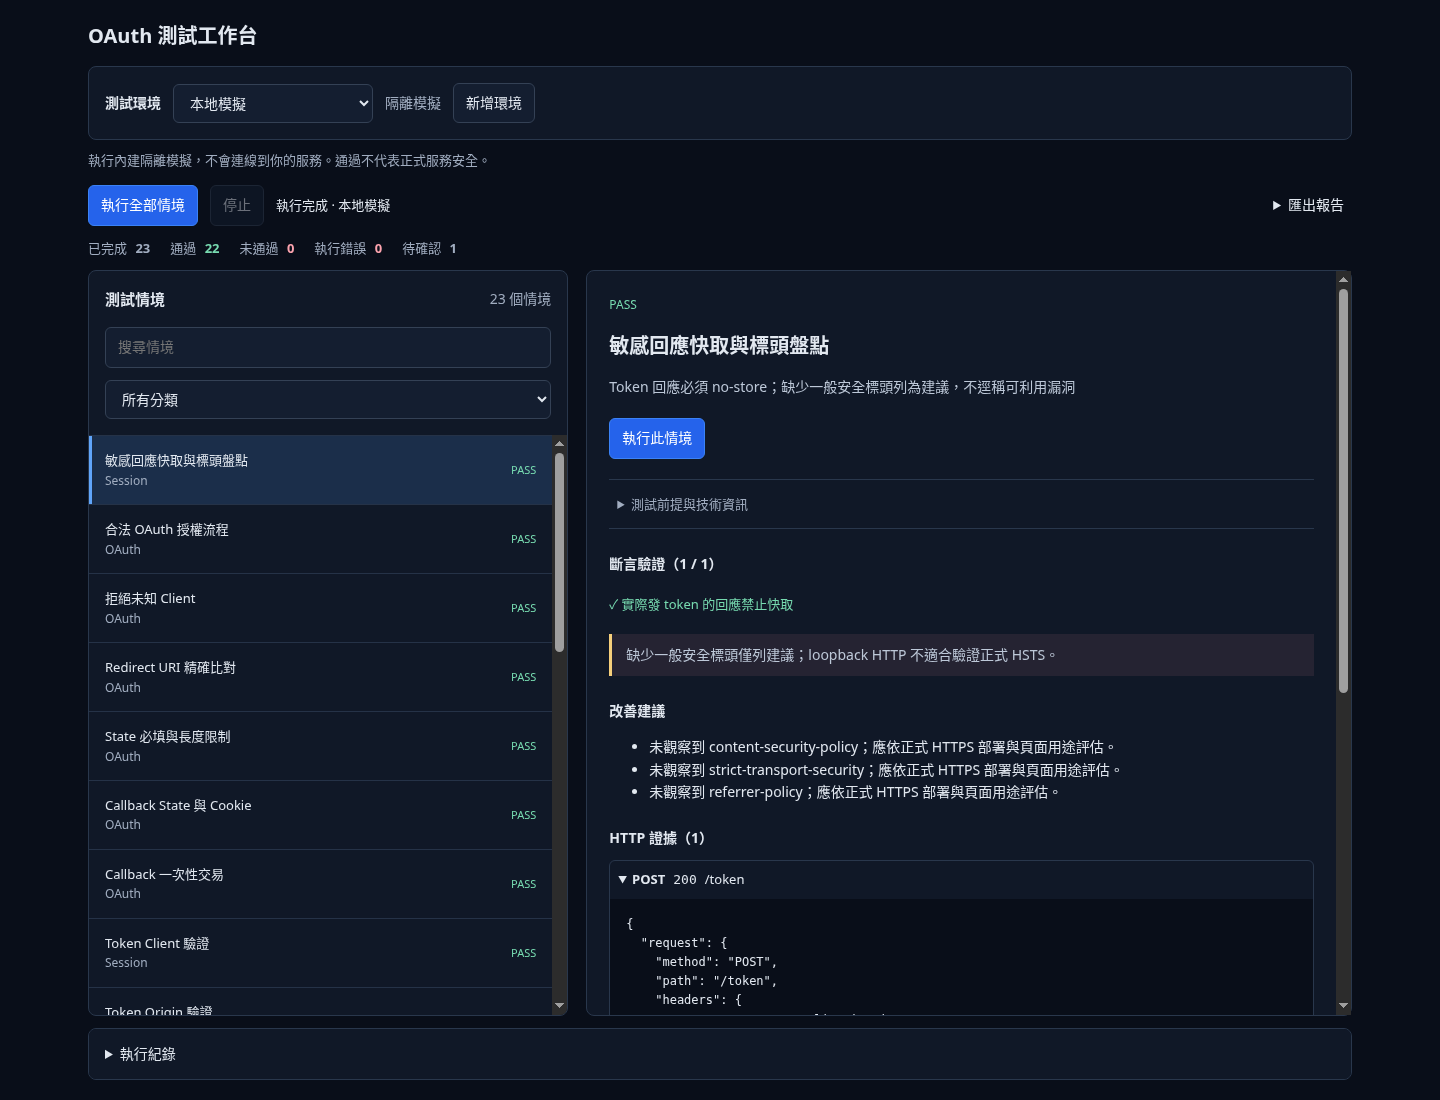
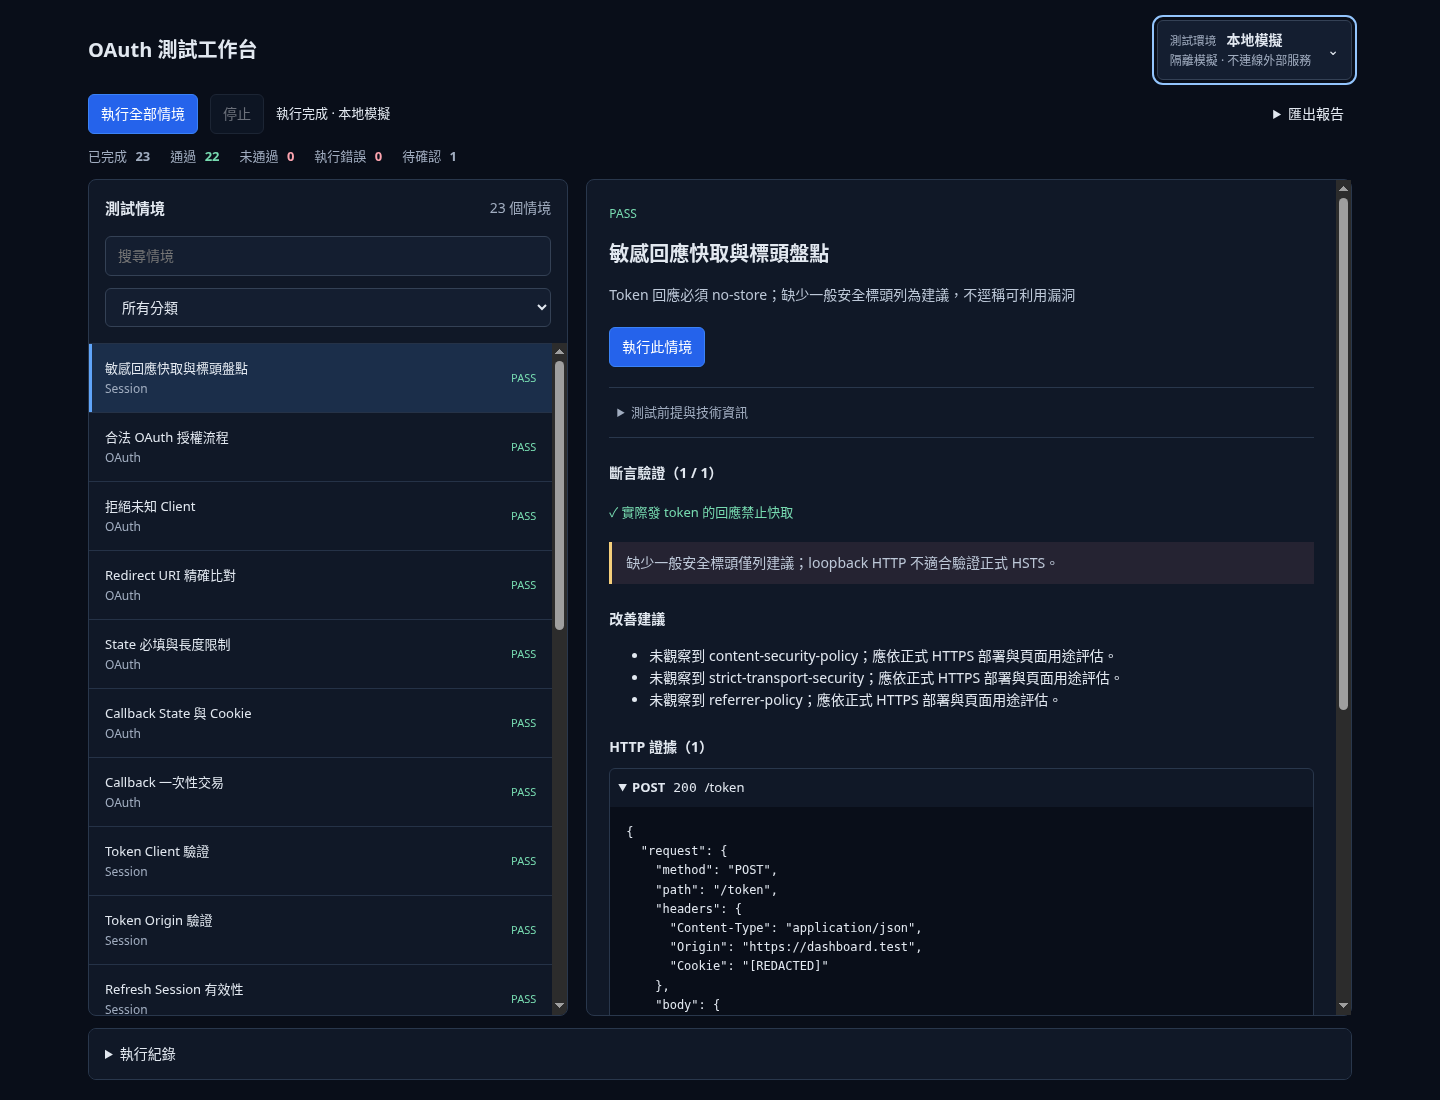
Move environment controls into a compact header with an expanded dialog

diff --git a/public/index.html b/public/index.html
@@ -11,6 +11,19 @@
     <main>
       <header>
         <h1>OAuth 測試工作台</h1>
+        <button
+          id="environment-open"
+          class="environment-switcher"
+          aria-haspopup="dialog"
+          aria-controls="environment-panel"
+          disabled
+        >
+          <span class="switcher-text"
+            ><small>測試環境</small><strong id="environment-name">載入中</strong
+            ><span id="environment-summary" class="muted"></span
+          ></span>
+          <span aria-hidden="true">⌄</span>
+        </button>
         <span id="runner-status">NOT CONNECTED</span>
       </header>
       <div id="startup-help" class="startup-help" role="status">
@@ -20,19 +33,6 @@
           >此儀表板需要啟用 JavaScript。</noscript
         >
       </div>
-      <section
-        class="target-bar"
-        id="environment-settings"
-        aria-label="目標環境"
-      >
-        <label for="environment-select">測試環境</label>
-        <select id="environment-select" disabled></select>
-        <span id="environment-mode" class="muted"></span>
-        <button id="environment-new" disabled>新增環境</button>
-        <button id="environment-edit" disabled>編輯</button>
-        <span id="environment-target" class="target-url muted"></span>
-      </section>
-      <p id="environment-notice" class="notice">載入環境後即可選擇測試情境。</p>
       <div class="run-toolbar">
         <button id="run" class="primary" disabled>執行全部情境</button>
         <button id="cancel" disabled>停止</button>
@@ -90,6 +90,37 @@
         <pre id="console">尚未連接測試執行器。</pre>
       </details>
     </main>
+    <dialog id="environment-panel" aria-labelledby="environment-panel-title">
+      <div class="panel-heading">
+        <h2 id="environment-panel-title">測試環境</h2>
+        <button id="environment-panel-close" aria-label="關閉環境面板">
+          ✕
+        </button>
+      </div>
+      <div class="environment-panel-content">
+        <section
+          class="target-bar"
+          id="environment-settings"
+          aria-label="目標環境"
+        >
+          <label for="environment-select">測試環境</label>
+          <select id="environment-select" disabled></select>
+          <span id="environment-mode" class="muted"></span>
+          <button id="environment-new" disabled>新增環境</button>
+          <button id="environment-edit" disabled>編輯</button>
+          <span id="environment-target" class="target-url muted"></span>
+        </section>
+        <p id="environment-notice" class="notice">
+          載入環境後即可選擇測試情境。
+        </p>
+        <p class="muted">
+          切換或儲存環境不會送出測試請求。按下執行後，才會測試所選目標。
+        </p>
+        <div class="environment-form-actions">
+          <button id="environment-panel-done" class="primary">完成</button>
+        </div>
+      </div>
+    </dialog>
     <dialog id="environment-dialog" aria-labelledby="environment-dialog-title">
       <form id="environment-form">
         <div class="panel-heading">

diff --git a/public/app.js b/public/app.js
@@ -9,6 +9,7 @@ let editingEnvironment;
 const mode = () =>
   currentEnvironment?.type === "http" ? "CUSTOM_HTTP" : "SIMULATION";
 function environmentControls() {
+  $("environment-open").disabled = !currentEnvironment || loadingEnvironment;
   $("environment-edit").hidden =
     !currentEnvironment || currentEnvironment.builtin;
   $("environment-select").disabled = running || loadingEnvironment;
@@ -74,7 +75,13 @@ async function selectEnvironment(id) {
       "http",
       currentEnvironment.type === "http",
     );
-    $("environment-target").textContent = currentEnvironment.baseUrl || "";
+    $("environment-name").textContent = currentEnvironment.name;
+    $("environment-summary").textContent =
+      currentEnvironment.baseUrl || "隔離模擬 · 不連線外部服務";
+    $("environment-open").title =
+      `${currentEnvironment.name} · ${$("environment-summary").textContent}`;
+    $("environment-target").textContent =
+      currentEnvironment.baseUrl || "程式內建模擬器";
     $("environment-notice").textContent =
       currentEnvironment.type === "http"
         ? "只檢查公開端點與未登入請求；缺少必要設定的情境會標為待確認。"
@@ -106,6 +113,7 @@ function profileFields() {
     input.disabled = !http;
 }
 function openEnvironment(profile) {
+  $("environment-panel").close();
   editingEnvironment = profile;
   $("environment-dialog-title").textContent = profile ? "管理環境" : "新增環境";
   $("profile-name").value = profile?.name || "";
@@ -463,6 +471,12 @@ document.addEventListener("keydown", (event) => {
 });
 $("environment-select").onchange = () =>
   selectEnvironment($("environment-select").value).catch(() => {});
+$("environment-open").onclick = () => $("environment-panel").showModal();
+$("environment-panel-close").onclick = $("environment-panel-done").onclick =
+  () => $("environment-panel").close();
+$("environment-dialog").addEventListener("close", () =>
+  $("environment-panel").showModal(),
+);
 $("environment-new").onclick = () => openEnvironment();
 $("environment-edit").onclick = () => openEnvironment(currentEnvironment);
 $("environment-close").onclick = () => $("environment-dialog").close();

diff --git a/public/style.css b/public/style.css
@@ -349,6 +349,58 @@ dialog::backdrop {
   margin-right: auto;
   color: #fda4af;
 }
+.environment-switcher {
+  display: flex;
+  align-items: center;
+  gap: 16px;
+  text-align: left;
+  max-width: 65%;
+  min-width: 0;
+}
+.switcher-text {
+  display: grid;
+  grid-template-columns: auto minmax(0, 1fr);
+  column-gap: 10px;
+  align-items: baseline;
+  min-width: 0;
+}
+#environment-name,
+#environment-summary {
+  overflow: hidden;
+  text-overflow: ellipsis;
+  white-space: nowrap;
+}
+#environment-summary {
+  grid-column: 1 / -1;
+  font-size: 12px;
+}
+#environment-panel {
+  width: min(680px, calc(100% - 28px));
+}
+.environment-panel-content {
+  padding: 0 20px 8px;
+}
+.environment-panel-content .target-bar {
+  border: 0;
+  background: transparent;
+  padding: 0;
+}
+.environment-panel-content .target-url {
+  flex-basis: 100%;
+  margin: 0;
+}
+.environment-panel-content .notice {
+  margin: 16px 0;
+}
+@media (max-width: 760px) {
+  .environment-switcher {
+    max-width: 100%;
+    width: 100%;
+  }
+  .switcher-text {
+    flex: 1;
+  }
+}
 /* Each desktop column owns one scroll area; evidence flows with the detail. */
 @media (min-width: 761px) {
   body {

diff --git a/docs/STATUS.md b/docs/STATUS.md
@@ -9,6 +9,7 @@
 - 移除同頁側欄、宣傳口號、重複統計與固定底列；以選環境、執行情境、查看結果為主。
 - 情境清單不再展示可能被誤認為漏洞判定的 HIGH／MEDIUM；執行結果的 FAIL 與 ERROR 分開統計。
 - 技術前提與執行紀錄預設收合；保留必要測試範圍說明、斷言與逐筆 HTTP 證據。
+- 環境設定收進 header：平時只顯示環境名稱與目標摘要，點擊以 dialog 放大切換／管理，完整範圍說明保留在面板中。支援 Escape 關閉、焦點返回與手機寬度；新增／編輯關閉後回到環境面板，不推動工作區。
 - 桌面採固定視窗高度的雙欄工作區：左側清單與右側結果各自捲動，搜尋與執行控制保留在原位；HTTP response 取消內層捲軸，長文字自動換行。手機維持自然頁面排版。
 - 以實際 Chromium 滾輪驗證左右捲動隔離與邊界，長 response 在 1440×1100、1280×720 均不帶動整頁；展開執行紀錄不撐長頁面，切換情境重設結果捲動位置。
 - 自動選取第一個情境，分類依目前環境提供，篩選後的詳情與選取同步；環境 CRUD、設定版本隔離及匯出維持原行為。

diff --git a/README.md b/README.md
@@ -29,7 +29,7 @@ npm run test:browser
 
 ## 目前介面
 
-選擇環境後，可搜尋／篩選情境，執行單項或全部測試，直接查看斷言及 HTTP 證據。執行紀錄、測試前提與報告匯出收在展開操作中；「未通過」與「執行錯誤」分開統計。結果只保留在目前頁面，重新整理會清空。
+頁首顯示目前環境名稱與目標摘要；點擊可開啟環境面板，切換、新增或編輯環境。選擇環境後，可搜尋／篩選情境，執行單項或全部測試，直接查看斷言及 HTTP 證據。執行紀錄、測試前提與報告匯出收在展開操作中；「未通過」與「執行錯誤」分開統計。結果只保留在目前頁面，重新整理會清空。
 
 桌面版工作區固定在視窗內，左側情境與右側結果各自捲動；HTTP 回應隨右欄展開並自動換行，不再有額外的內層捲軸。切換情境會回到結果頂部。
 
